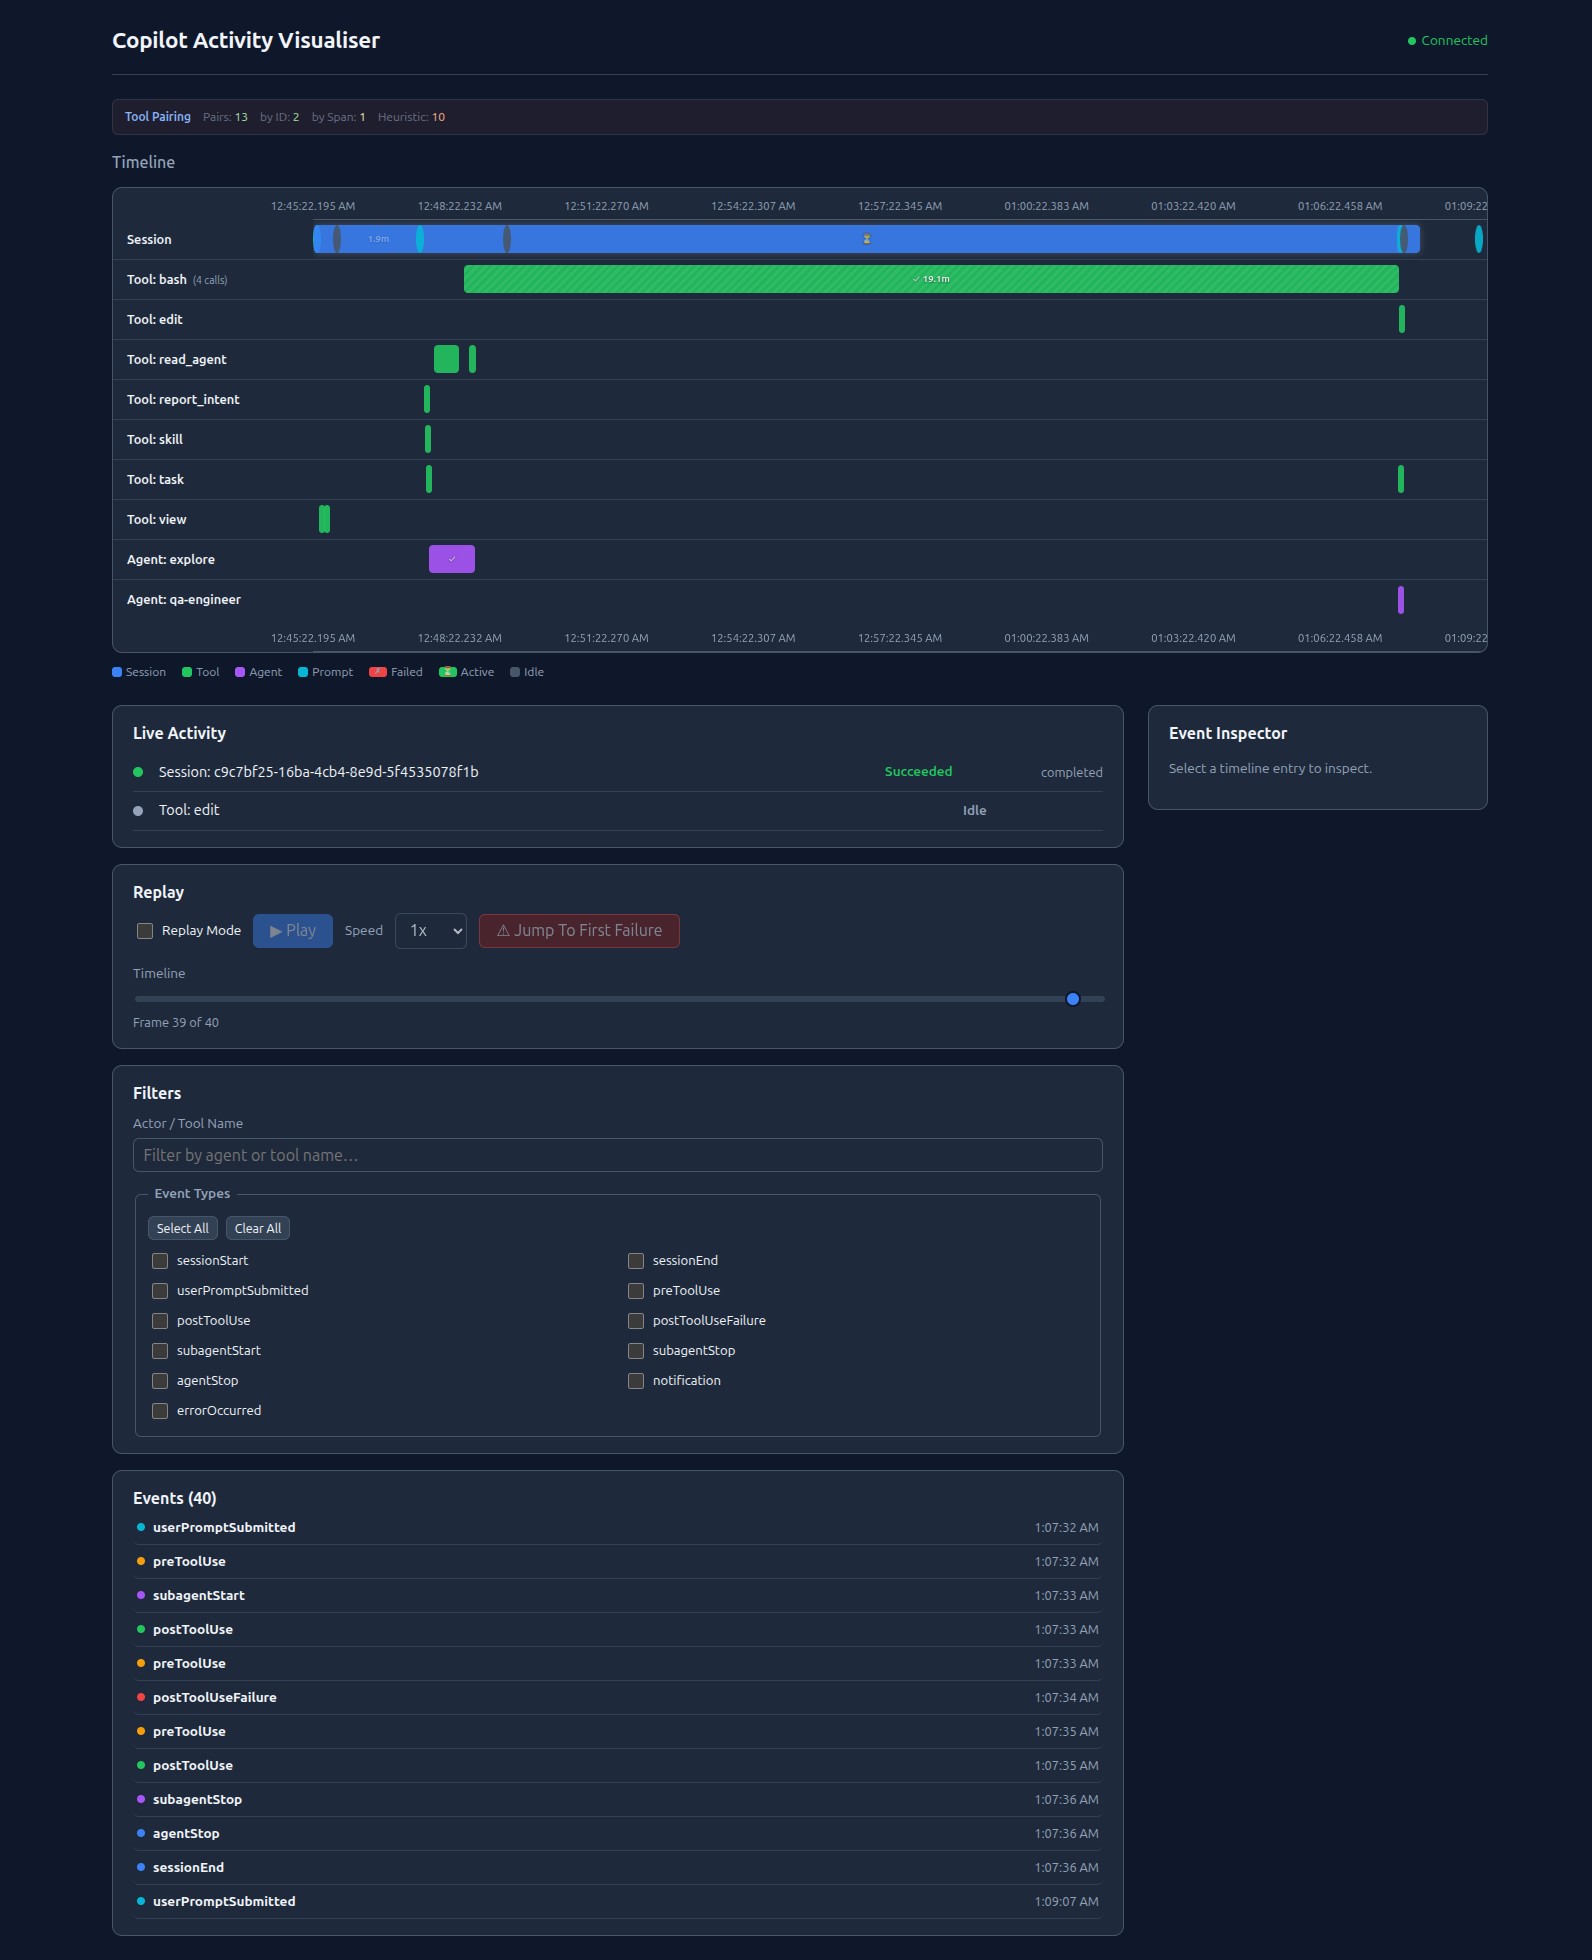
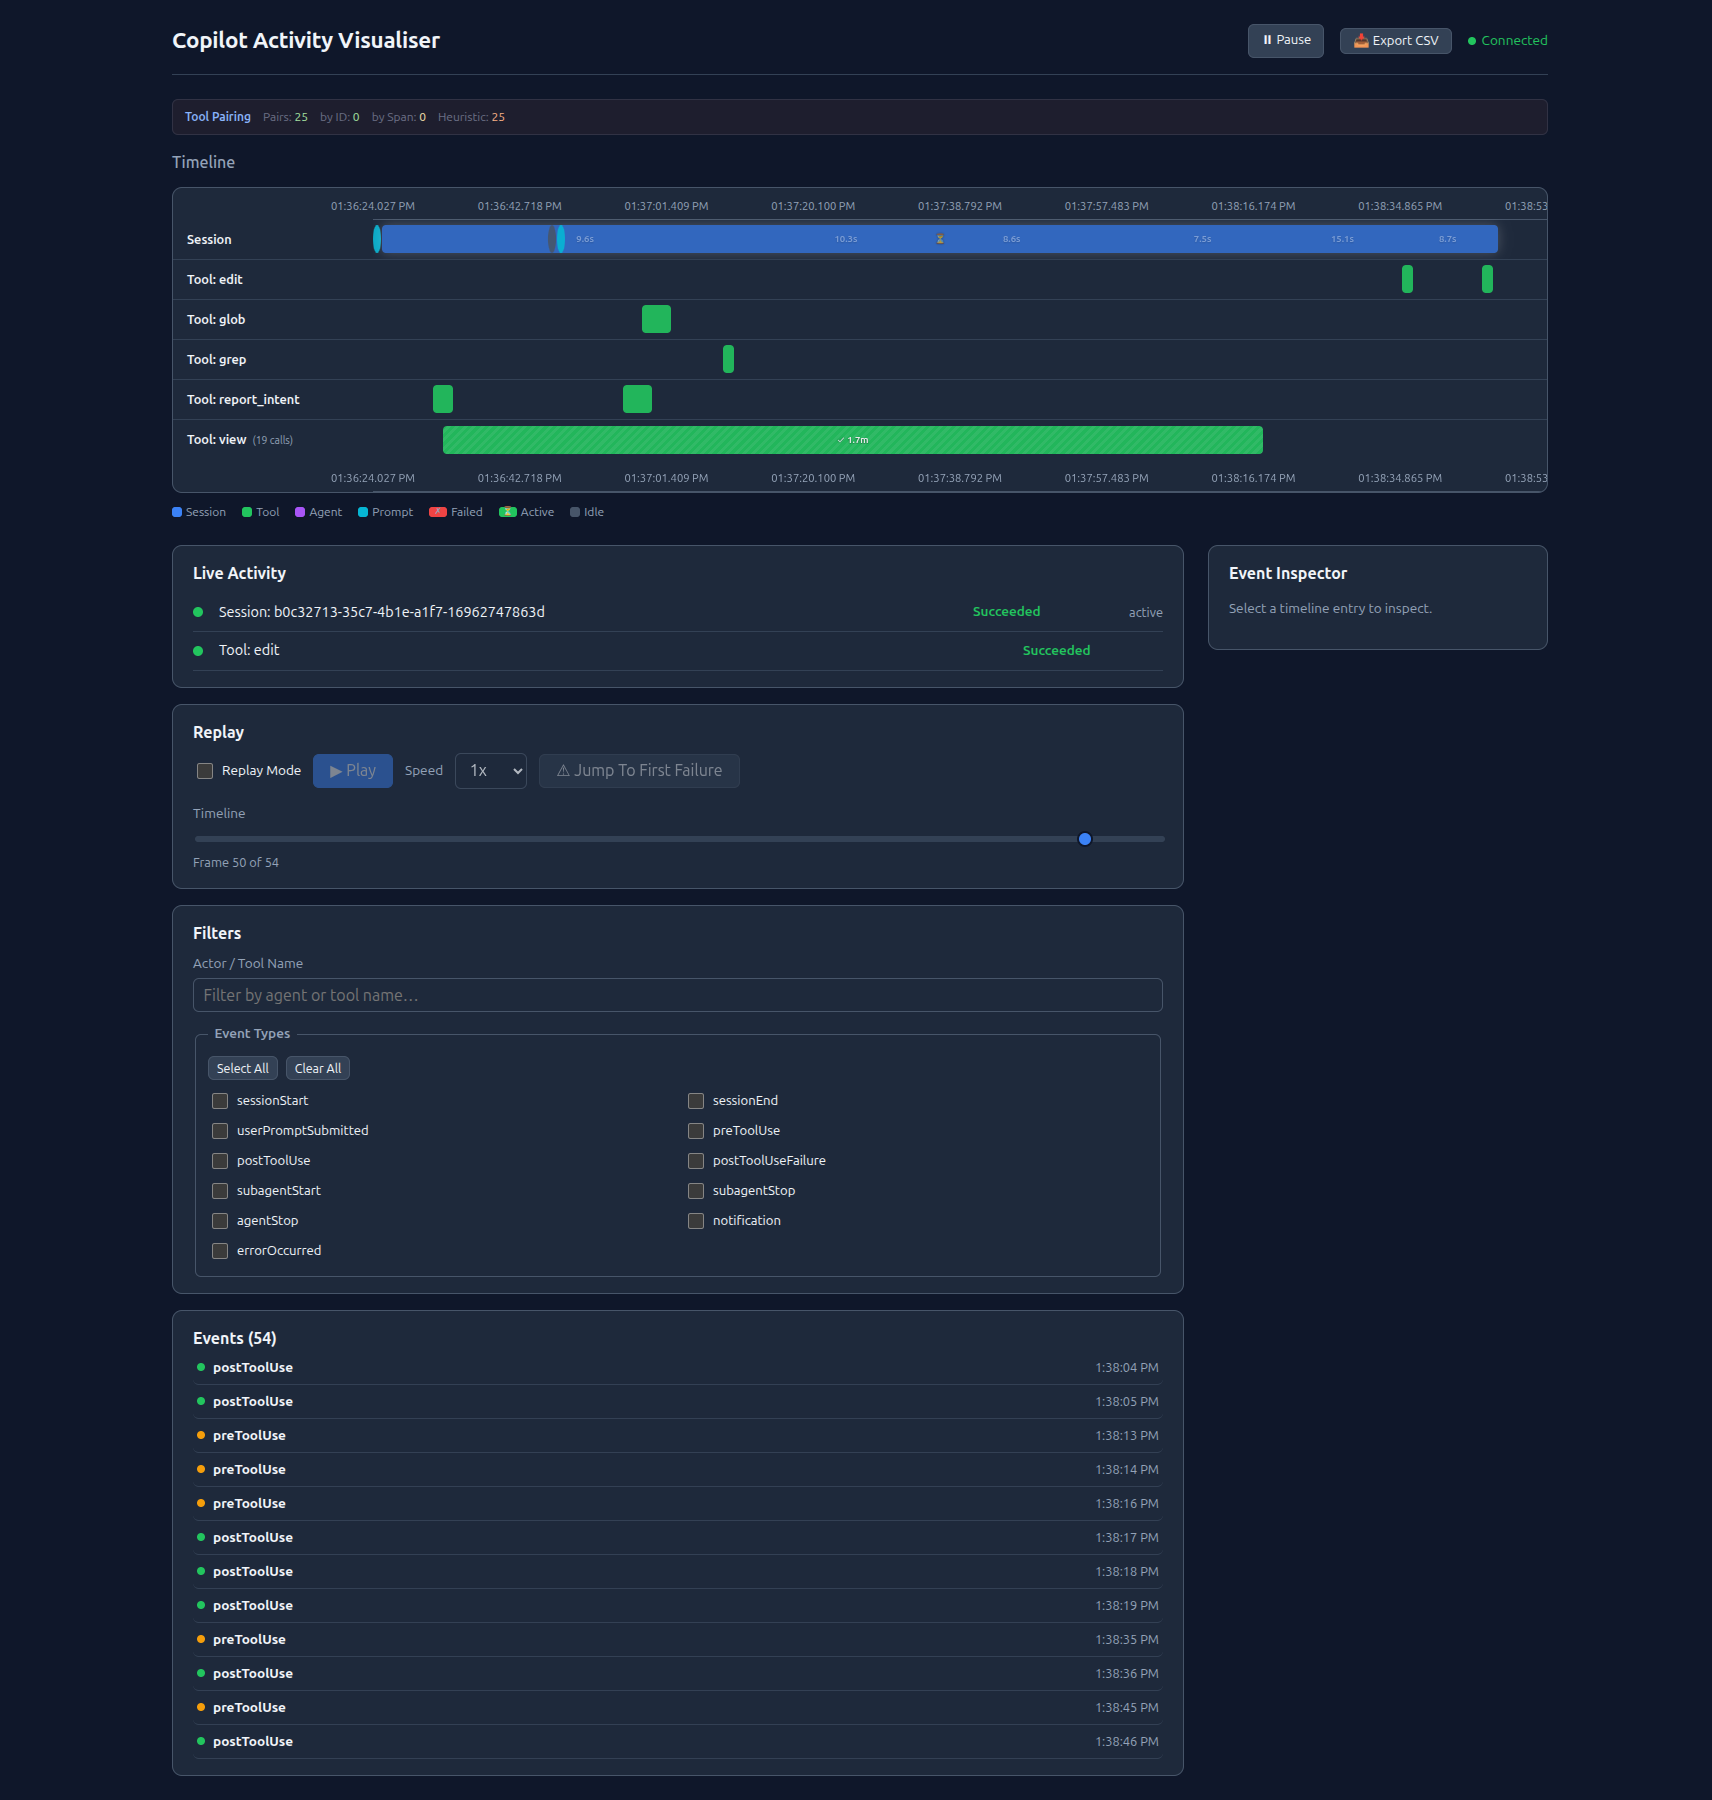
docs: refresh UI screenshots and add reporting coverage

diff --git a/README.md b/README.md
@@ -11,6 +11,12 @@ Visualize Copilot agent runtime activity in real time and replay sessions from p
 
 ![UI overview of the live board, replay controls, filters, and inspector](docs/tutorials/assets/tutorial-screenshots/ui-features/ui-overview.png)
 
+> [!TIP]
+> New reporting flow: export the active session as CSV directly from the header.
+> See the [Reporting Controls](docs/tutorials/ui-feature-showcase.md#reporting-controls) section and screenshot below.
+>
+> ![Reporting controls with Export CSV action](docs/tutorials/assets/tutorial-screenshots/ui-features/ui-reporting-export-csv.png)
+
 See the [UI Feature Showcase](docs/tutorials/ui-feature-showcase.md) for a
 panel-by-panel walkthrough of the visualizer interface.
 
@@ -48,6 +54,7 @@ The project is complete for the planned MVP scope:
 - Enriched tool event payloads (when provided by host hooks): tool args, agent context, and optional skill metadata
 - Synthesized subagent lifecycle from task dispatch metadata (`toolArgs.agent_type`): start on task completion, stop on `agentStop`
 - CSV session export — one-click download of all session events as a CSV file with RFC 4180 escaping
+- Reporting docs and screenshot — see [UI Feature Showcase: Reporting Controls](docs/tutorials/ui-feature-showcase.md#reporting-controls)
 - Live feed pause/resume — freeze the display for inspection without losing incoming events; resume flushes buffered state
 
 ## Getting Started

diff --git a/docs/tutorials/ui-feature-showcase.md b/docs/tutorials/ui-feature-showcase.md
@@ -10,7 +10,7 @@ explanations.
 
 The finished screen combines six surfaces that matter during investigation:
 pairing diagnostics, the Gantt timeline, live activity, replay controls,
-filtering, and the event inspector.
+filtering, reporting controls, and the event inspector.
 
 ## Tool Pairing
 
@@ -43,6 +43,14 @@ specific event.
 
 Replay mode reconstructs a session from persisted JSONL, supports speed
 changes, and lets you jump directly to the first failure.
+
+## Reporting Controls
+
+![Reporting controls with Export CSV action](./assets/tutorial-screenshots/ui-features/ui-reporting-export-csv.png)
+
+The header action exports the currently selected session events to CSV, which
+is useful for offline analysis, sharing incident slices, or importing into
+spreadsheets.
 
 ## Filters
 

diff --git a/docs/tutorials/from-vanilla-to-visualizer-ps1/part-6.md b/docs/tutorials/from-vanilla-to-visualizer-ps1/part-6.md
@@ -183,6 +183,13 @@ scan the entire timeline.
 Replay mode lets you scrub through persisted sessions, adjust playback speed,
 and jump directly to the first failure.
 
+**Reporting controls**
+
+![Header controls with Export CSV reporting action](../assets/tutorial-screenshots/ui-features/ui-reporting-export-csv.png)
+
+Use the Export CSV action to download the current session event stream for
+offline review, spreadsheet analysis, or incident handoff.
+
 **Event inspector**
 
 ![Event inspector showing a traced `postToolUse` payload](../assets/tutorial-screenshots/ui-features/ui-event-inspector-tracing.png)

diff --git a/docs/tutorials/from-vanilla-to-visualizer/part-6.md b/docs/tutorials/from-vanilla-to-visualizer/part-6.md
@@ -176,6 +176,13 @@ scan the entire timeline.
 Replay mode lets you scrub through persisted sessions, adjust playback speed,
 and jump directly to the first failure.
 
+**Reporting controls**
+
+![Header controls with Export CSV reporting action](../assets/tutorial-screenshots/ui-features/ui-reporting-export-csv.png)
+
+Use the Export CSV action to download the current session event stream for
+offline review, spreadsheet analysis, or incident handoff.
+
 **Event inspector**
 
 ![Event inspector showing a traced `postToolUse` payload](../assets/tutorial-screenshots/ui-features/ui-event-inspector-tracing.png)
